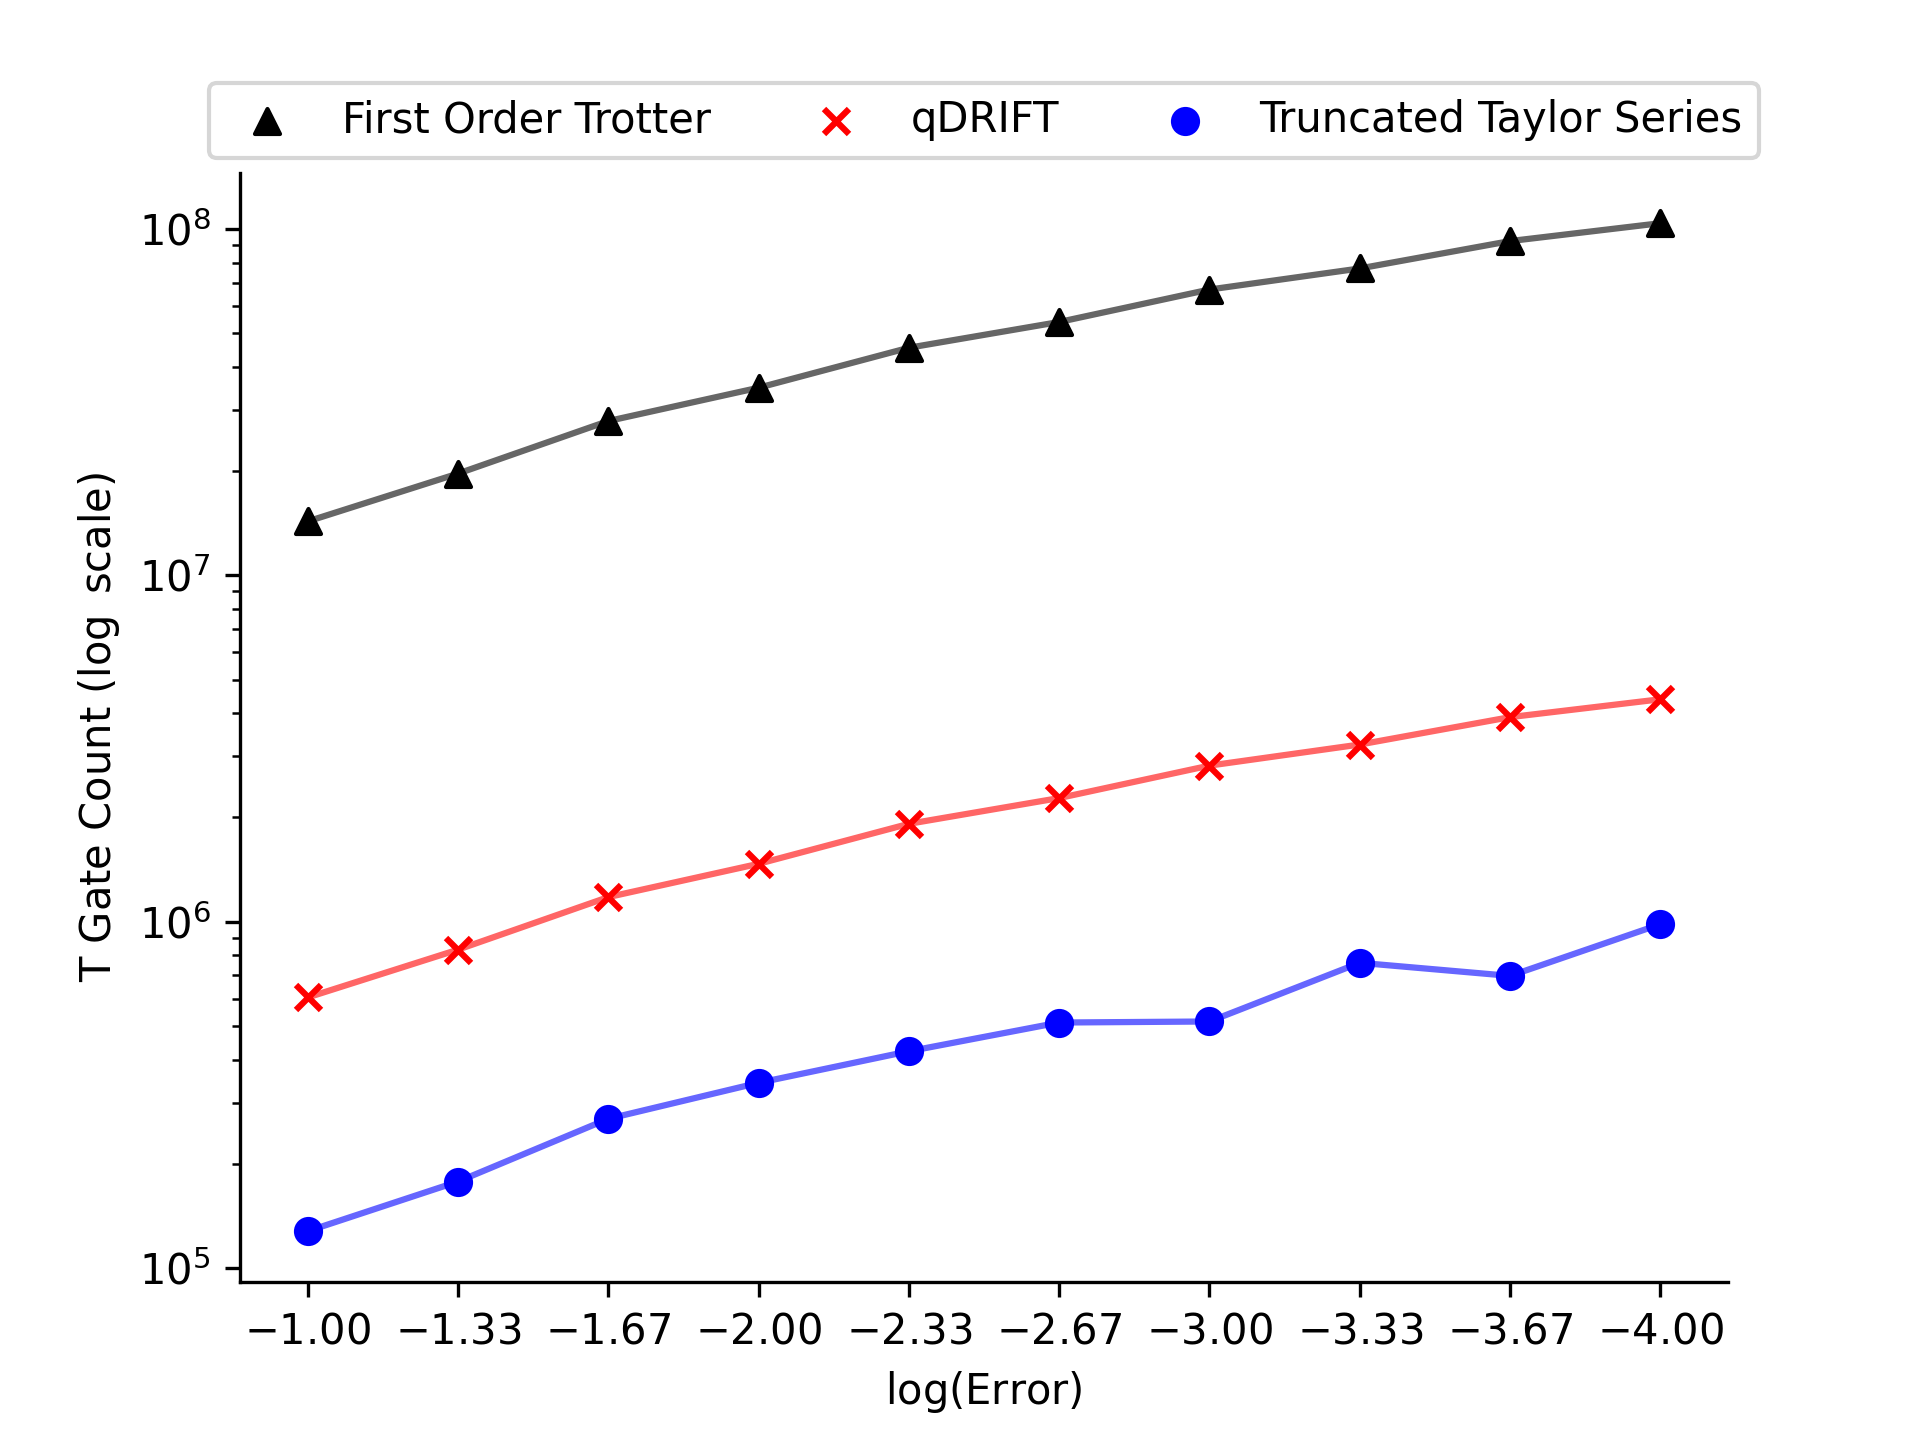
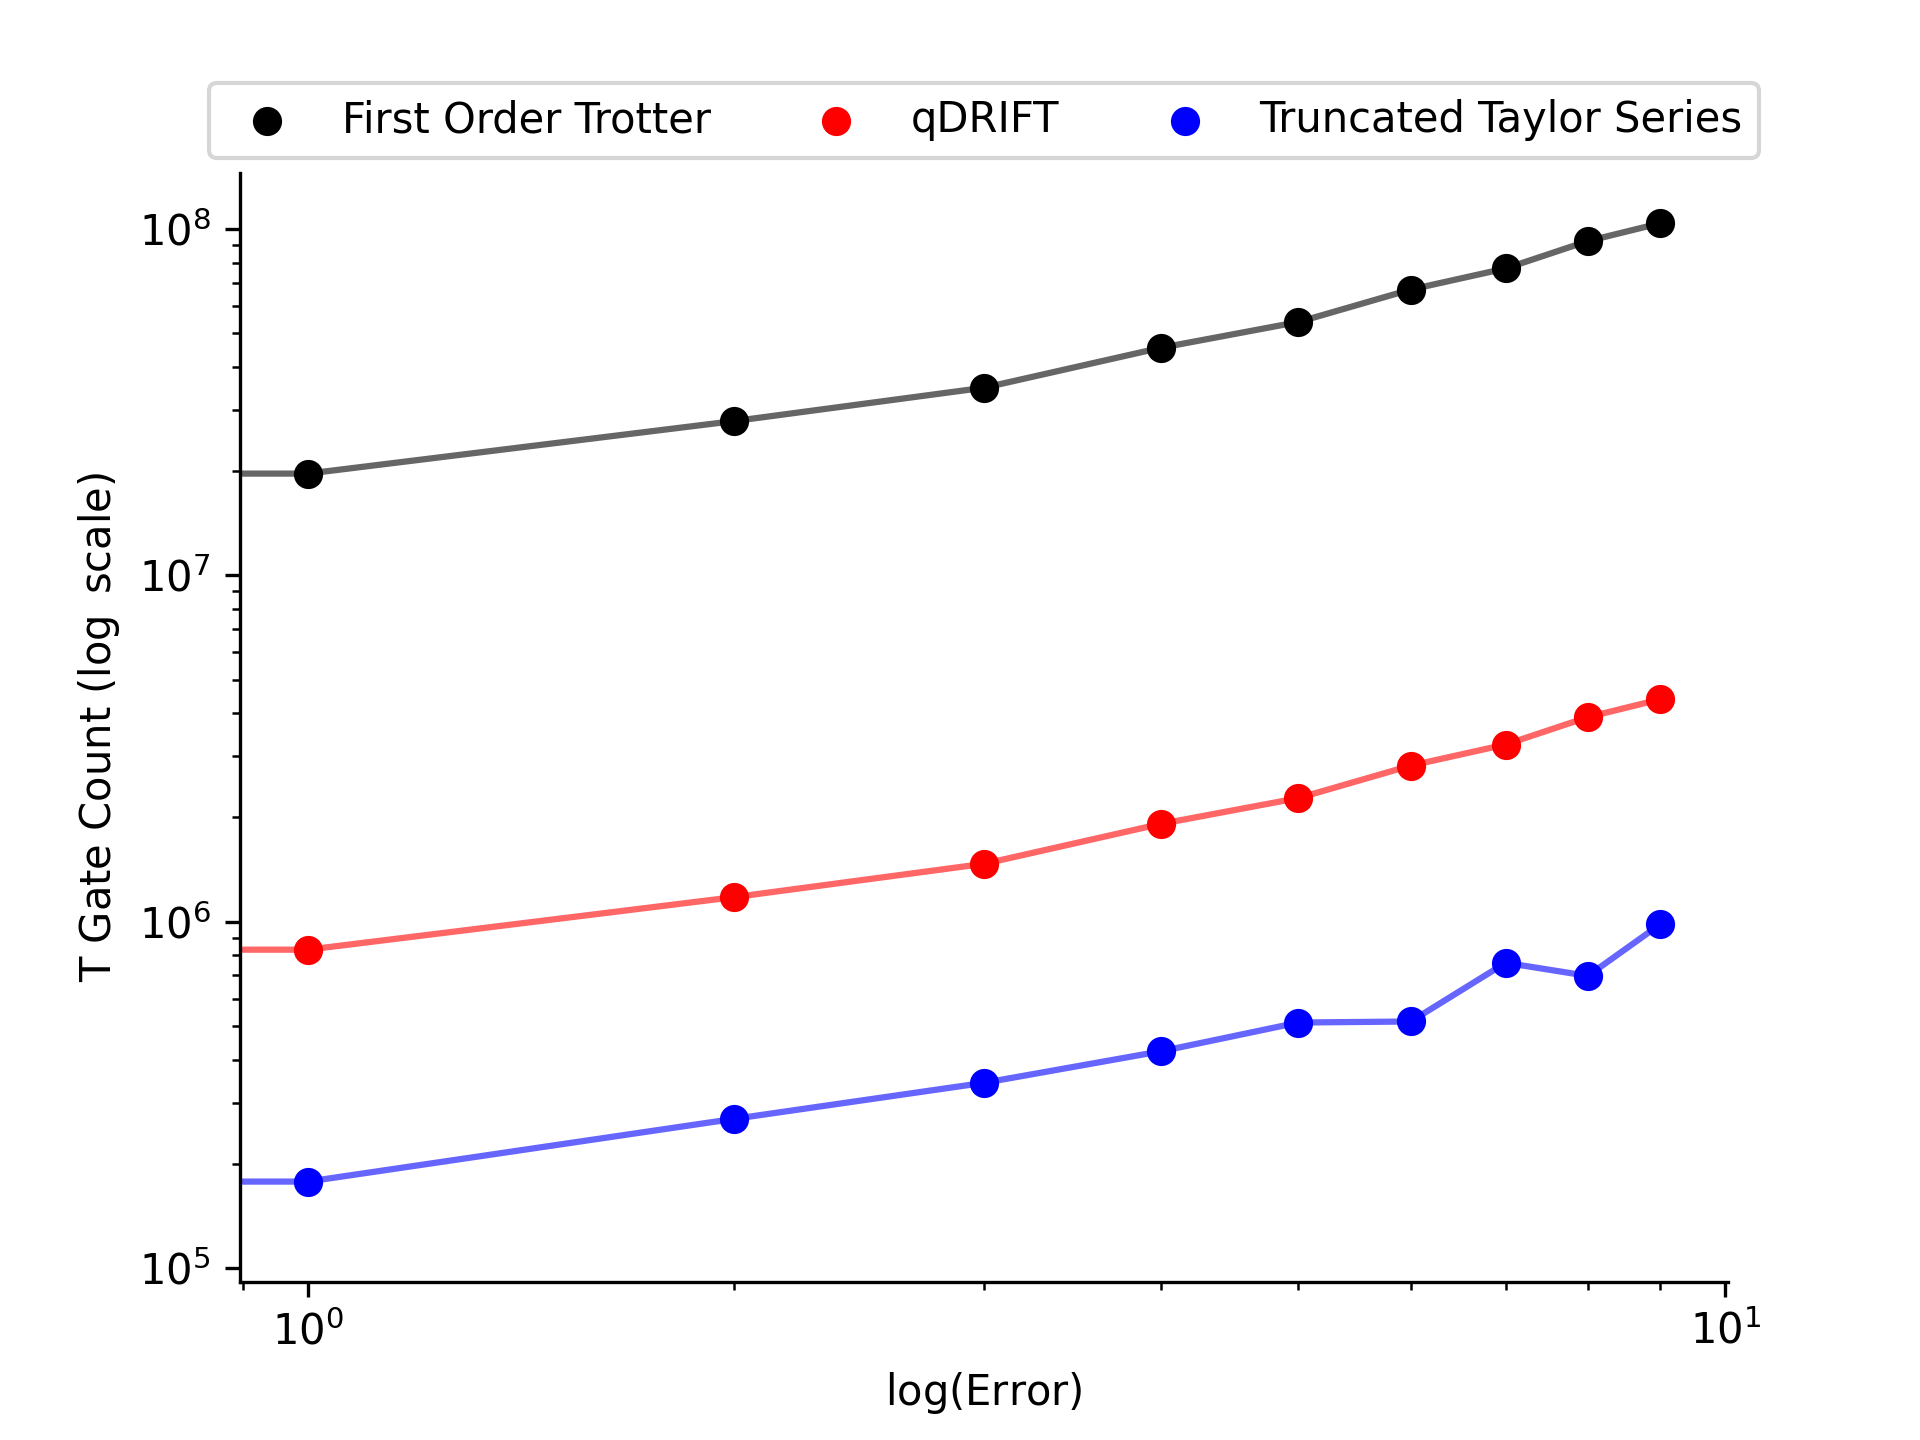
ammonia plots

diff --git a/ising/benchmark/molecule/plot_t_gate_eps.py b/ising/benchmark/molecule/plot_t_gate_eps.py
@@ -9,13 +9,6 @@ colors: dict[str, str] = {
     "qDRIFT": "red",
 }
 
-markers: dict[str, str] = {
-    "Truncated Taylor Series": "o",
-    "First Order Trotter": "^",
-    "qDRIFT": "x",
-}
-
-
 def get_gate_count_gsp(molecule: str):
     file_name = f"data/tgatecount/{molecule}.json"
     with open(file_name, "r") as file:
@@ -32,25 +25,29 @@ def plot_dictionaries(name: str, depths: dict[str, dict[float, int]]):
 
     for method, data in depths.items():
         errors = list(data.keys())
+        print(errors)
         gates = list(data.values())
         plt.plot(errors, gates, color=colors[method], alpha=0.6)
-        plt.scatter(errors, gates, color=colors[method], label=method, marker=markers[method])
+        plt.scatter(errors, gates, color=colors[method], label=method)
 
-    ax.set_xticks(errors)
-
-    labels = [convert_to_tick(t) for t in errors]
-
-    ax.set_xticklabels(labels)
+    ax.set_xticks([1, 10**0.5, 10**0.2, 10**-1])
+    # labels = [convert_to_tick(t) for t in errors]
+    # ax.set_xticklabels(labels)
 
     # Remove the top and right border
     ax.spines['top'].set_visible(False)
     ax.spines['right'].set_visible(False)
 
     # Add labels for each group
-    plt.xlabel(r"$\log(\text{Error})$")
-    plt.ylabel(r"T Gate Count ($\log$ scale)")
+    plt.xlabel(r"Error ($\log_{10}$ scale)")
+    plt.ylabel(r"T Gate Count ($\log_{10}$ scale)")
     # plt.title(f"Method-Wise T-Gate Count vs Error for GSP for {name}")
     ax.set_yscale("log")
+    ax.set_xscale("log")
+    
+    ax.invert_xaxis()
+
+
     plt.legend(loc="upper center", bbox_to_anchor=(0.5, 1.10), ncol=3, fontsize=10)
 
     file_name = f"plots/benchmark/molecule/tgatecount/{name}.png"
@@ -59,9 +56,8 @@ def plot_dictionaries(name: str, depths: dict[str, dict[float, int]]):
 
 
 def main():
-    name = "ising"
+    name = "ammonia"
     gate_dicts = get_gate_count_gsp(name)
-    print(gate_dicts)
     plot_dictionaries(name, gate_dicts)
 
 
